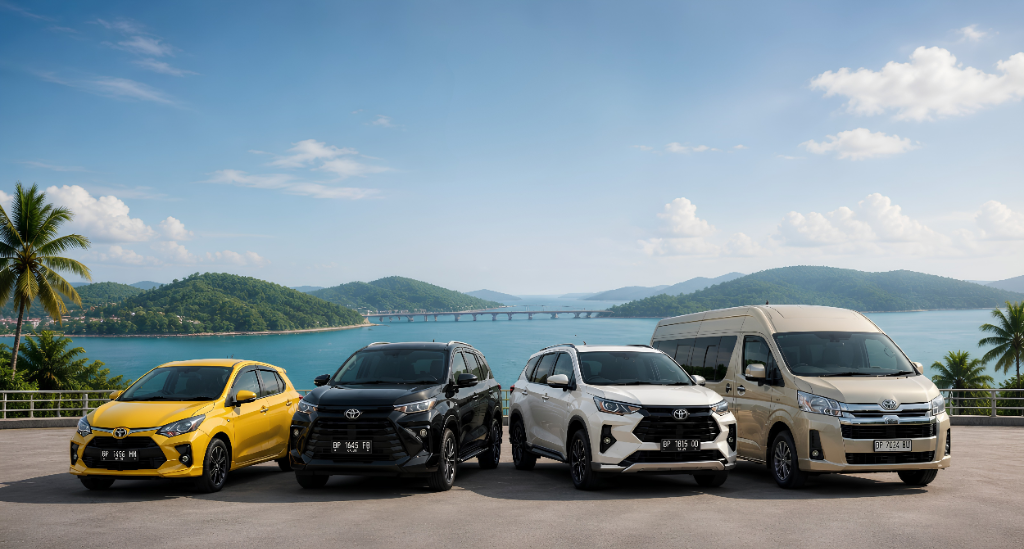
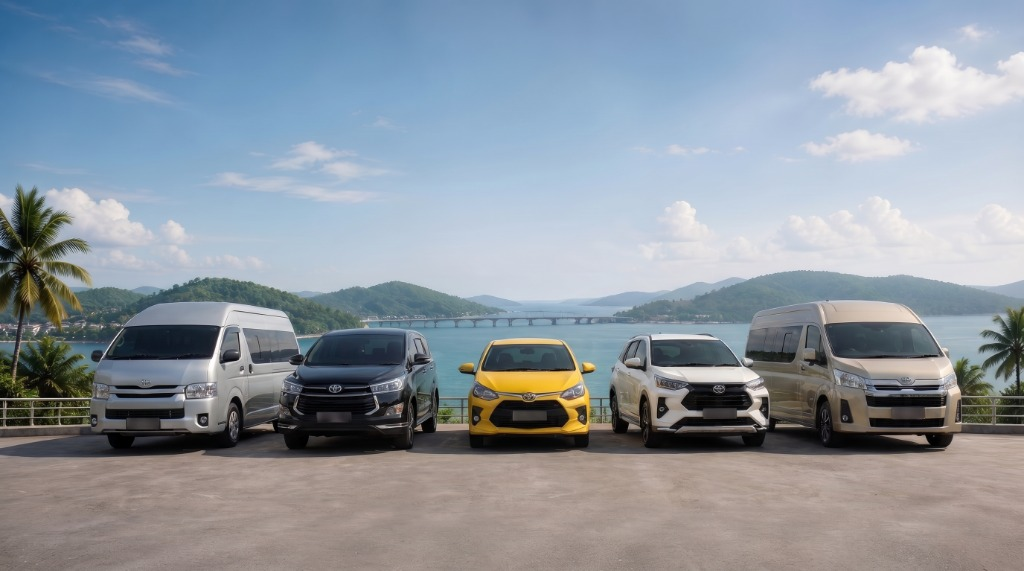
feat(rental-website): replace home hero image — fleet lineup photo

diff --git a/rental-website/src/components/HeroSection.vue b/rental-website/src/components/HeroSection.vue
@@ -15,7 +15,7 @@ const emit = defineEmits<{
 <template>
   <section
     class="relative min-h-screen min-h-[100dvh] flex flex-col justify-between bg-cover bg-center bg-no-repeat overflow-visible"
-    :style="{ backgroundImage: 'url(/images/hero-desktop.png)' }"
+    :style="{ backgroundImage: 'url(/images/hero-desktop.jpg)' }"
   >
     <!-- Spacer untuk Fixed Navbar di paling atas -->
     <div class="h-16 sm:h-20 shrink-0"></div>
